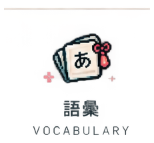
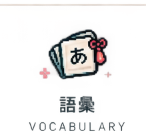
Physically crop squished text from icon_*.png

diff --git a/sw.js b/sw.js
@@ -1,4 +1,4 @@
-const CACHE = 'minna-kotoba-v139';
+const CACHE = 'minna-kotoba-v140';
 const ASSETS = [
   './', './index.html', './styles.css', './app.js', './vocab.json', './kaiwa.json', './listening-n5.json', './mock-tests-n5.json', './mock_tests/2018_N5_Mondai.pdf', './mock_tests/2018_N5_Kaitou.pdf', './data/grammar/lessons-01-25.json', './data/kanji/kanji-320.json', './manifest.webmanifest', './bg_pixel_cinema.jpg', './bg_cinema_wall.jpg', './bg_grammar.jpg', './bg_home.jpg', './bg_kanji.jpg', './bg_learn.jpg', './bg_lesson_1.jpg', './bg_lesson_2.jpg', './bg_lesson_3.jpg', './bg_lesson_4.jpg', './bg_lesson_5.jpg', './bg_lesson_6.jpg', './bg_lesson_7.jpg', './bg_lesson_8.jpg', './bg_lesson_9.jpg', './bg_lesson_10.jpg', './bg_lesson_11.jpg', './bg_lesson_12.jpg', './bg_lesson_13.jpg', './bg_lesson_14.jpg', './bg_lesson_15.jpg', './bg_lesson_16.jpg', './bg_lesson_17.jpg', './bg_lesson_18.jpg', './bg_lesson_19.jpg', './bg_lesson_20.jpg', './bg_lesson_21.jpg', './bg_lesson_22.jpg', './bg_lesson_23.jpg', './bg_lesson_24.jpg', './bg_lesson_25.jpg', './bg_more.jpg', './bg_more_new.jpg', './bg_practice.jpg', './bg_practice_new.jpg', './fuji.jpg', './fuji_wide.jpg', './icon_grammar.png', './icon_home.png', './icon_kanji.png', './icon_lessons.png', './icon_listening.png', './icon_mocktest.png', './nav_icon_home.png', './nav_icon_lessons.png', './nav_icon_vocabulary.png', './nav_icon_grammar.png', './nav_icon_kanji.png', './nav_icon_listening.png', './nav_icon_mocktest.png', './icon_vocabulary.png', './icons/icon-180.png', './icons/icon-192.png', './icons/icon-512.png'
 ];
